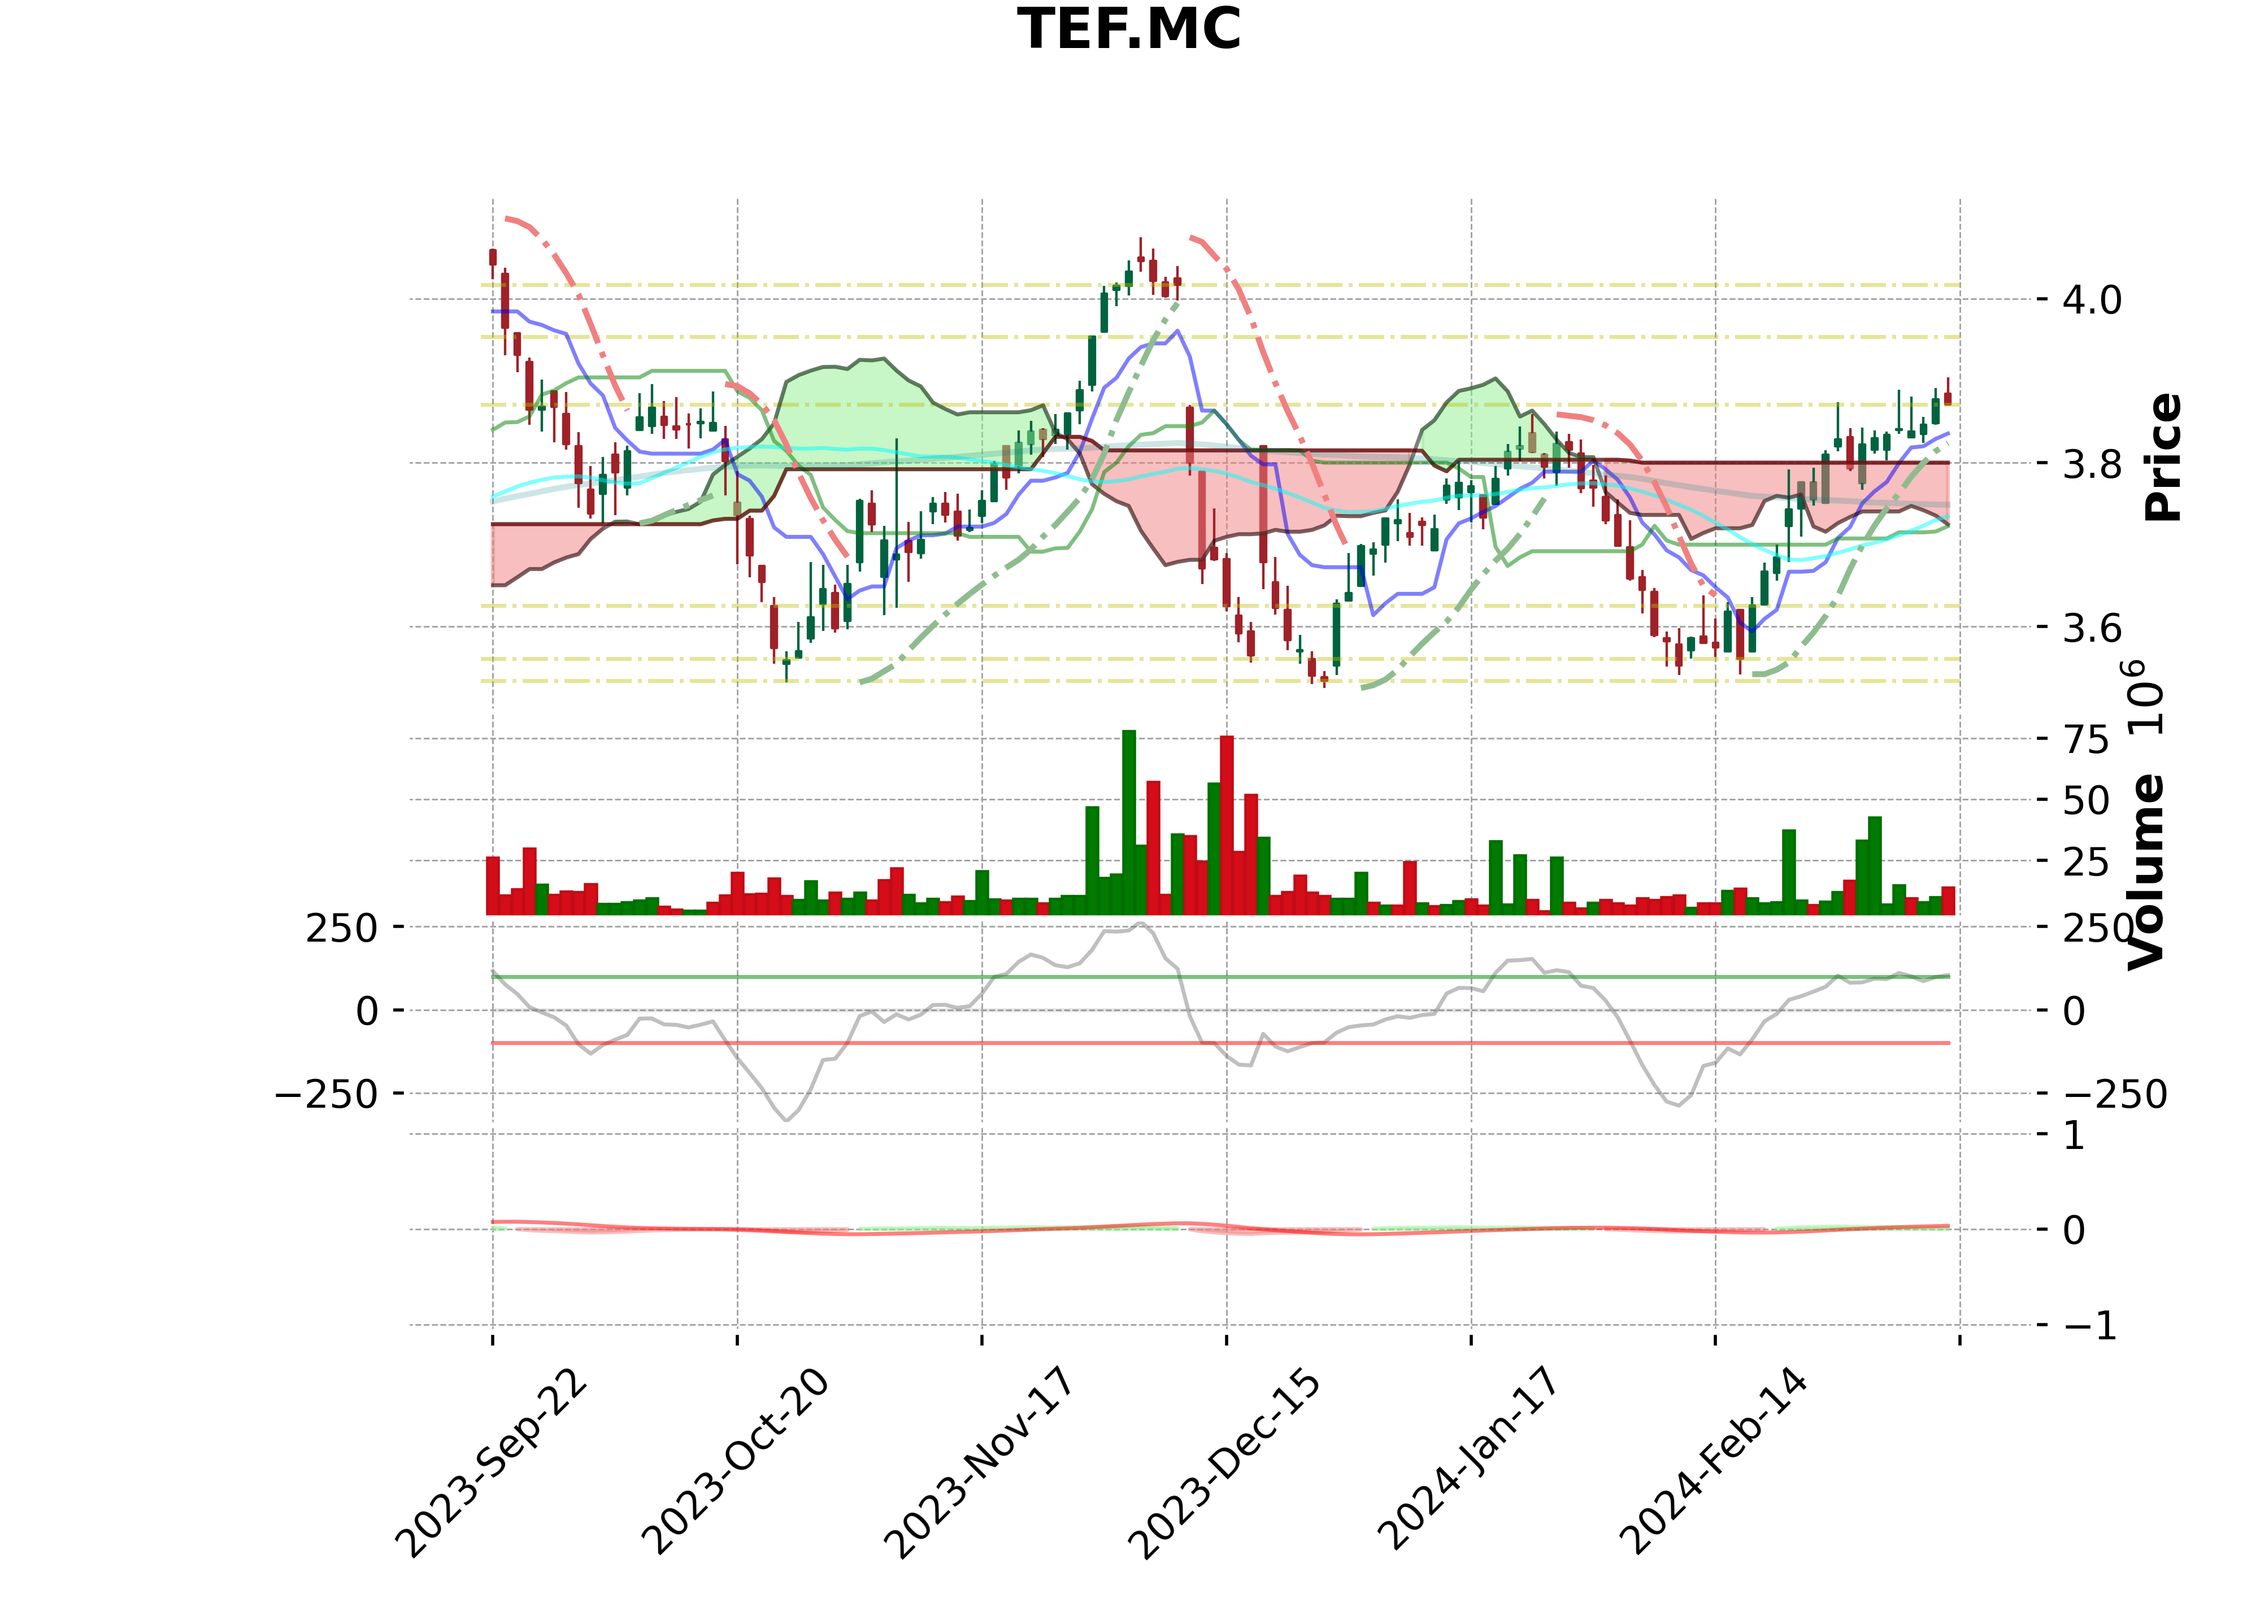
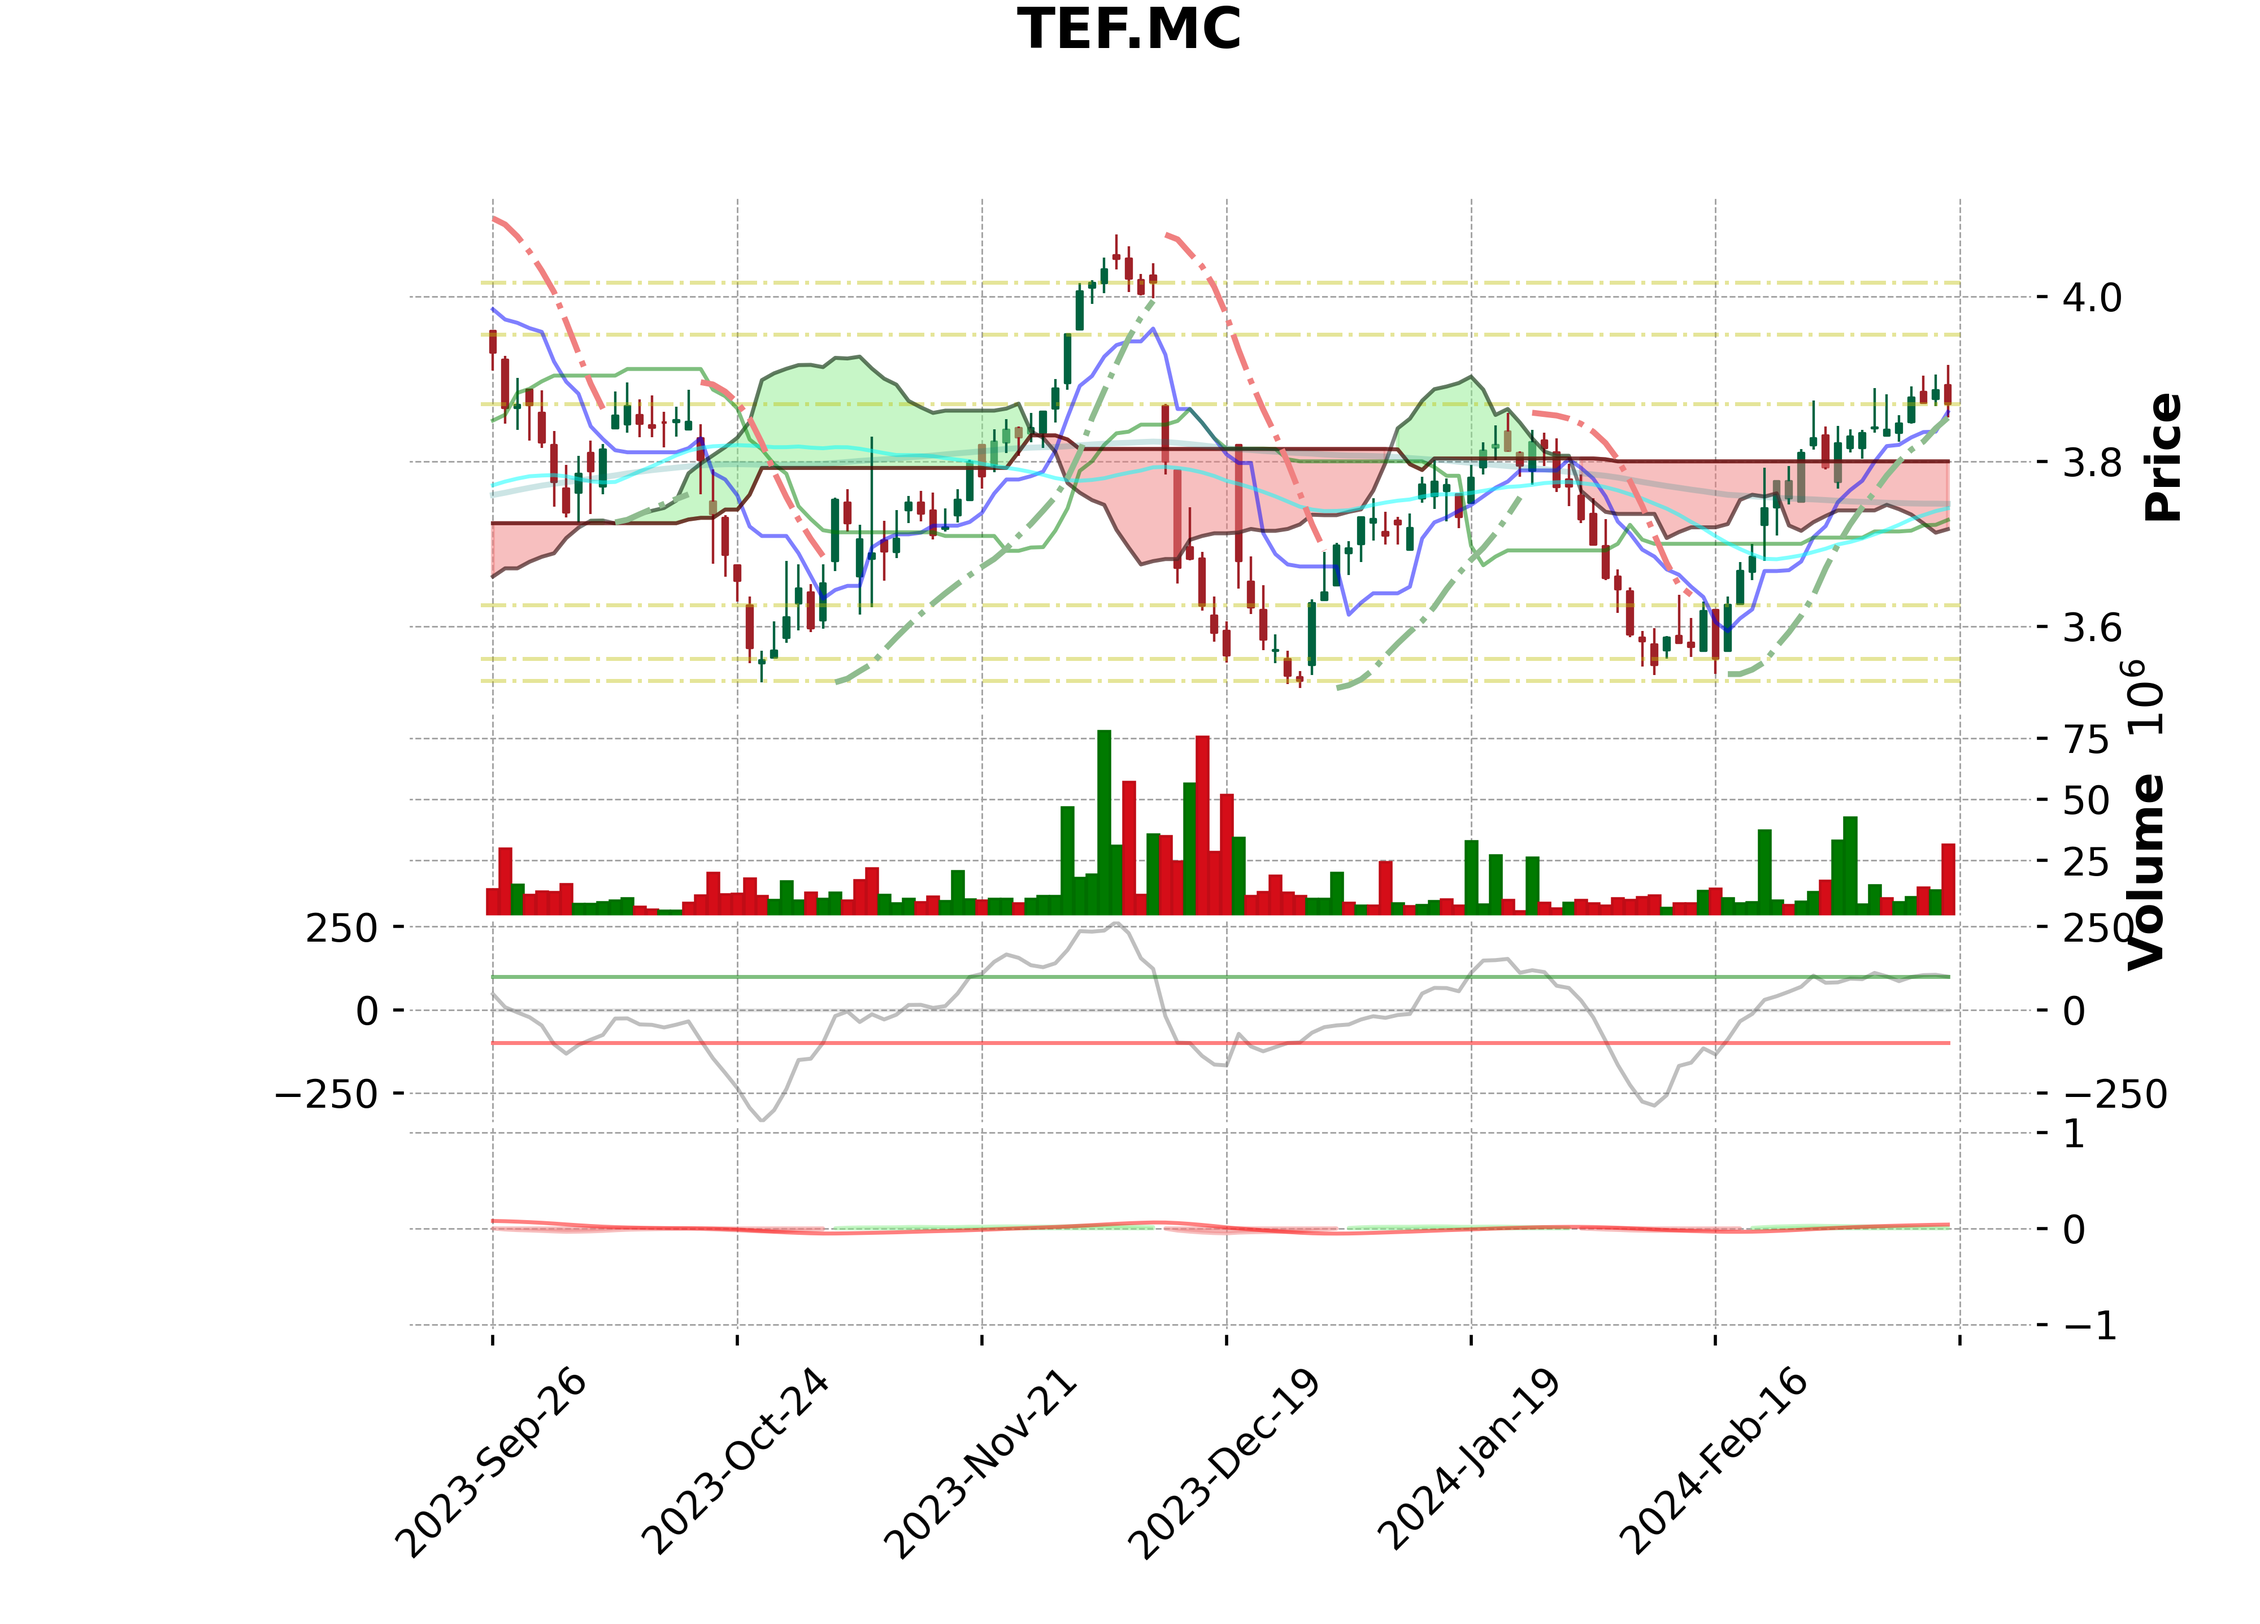
2024-03-12

diff --git a/_posts/2024-03-14-mercado-continuo.md b/_posts/2024-03-14-mercado-continuo.md
@@ -1,45 +1,63 @@
 ---
 title: Mercado Continuo
 author: jubapa
-date: 2024-03-12 00:10:00 +0800
+date: 2024-03-14 00:10:00 +0800
 categories: [Blogging, Finance, MC]
 tags: [finance]
 ---
 
-## 2024-03-12
+## 2024-03-14
 
 Checking ['ANA.MC', 'ANE.MC', 'ACX.MC', 'ACS.MC', 'ADZ.MC', 'AEDAS.MC', 'AENA.MC', 'AIR.MC', 'AI.MC', 'ALNT.MC', 'ALM.MC', 'AMS.MC', 'AMP.MC', 'EAT.MC', 'APAM.MC', 'APPS.MC', 'MTS.MC', 'ARM.MC', 'A3M.MC', 'ATRY.MC', 'ADX.MC', 'AZK.MC', 'BBVA.MC', 'SAB.MC', 'SAN.MC', 'BKT.MC', 'BKY.MC', 'RIO.MC', 'BAIN.MC', 'CABK.MC', 'CLNX.MC', 'CEV.MC', 'CIE.MC', 'CLEO.MC', 'CCEP.MC', 'CAF.MC', 'ALB.MC', 'CAM.MC', 'OLE.MC', 'DESA.MC', 'DIA.MC', 'MDF.MC', 'EBRO.MC', 'ENER.MC', 'EDR.MC', 'ENO.MC', 'ENG.MC', 'ENC.MC', 'ELE.MC', 'ECR.MC', 'FAE.MC', 'FER.MC', 'FDR.MC', 'FCC.MC', 'GAM.MC', 'GEST.MC', 'DOM.MC', 'GRE.MC', 'GCO.MC', 'CBAV.MC', 'GSJ.MC', 'EZE.MC', 'IAG.MC', 'IBE.MC', 'IBG.MC', 'ITX.MC', 'IDR.MC', 'COL.MC', 'ISUR.MC', 'ROVI.MC', 'RJF.MC', 'LRE.MC', 'LIB.MC', 'LDA.MC', 'LGT.MC', 'LOG.MC', 'MAP.MC', 'MEL.MC', 'MRL.MC', 'MVC.MC', 'MFEA.MC', 'MCM.MC', 'MTB.MC', 'NTGY.MC', 'NTH.MC', 'HOME.MC', 'NHH.MC', 'NEA.MC', 'NXT.MC', 'NYE.MC', 'OHLA.MC', 'OPDE.MC', 'ORY.MC', 'PVA.MC', 'PHM.MC', 'PRM.MC', 'PRS.MC', 'CASH.MC', 'PSG.MC', 'RLIA.MC', 'RED.MC', 'R4.MC', 'REN.MC', 'REP.MC', 'SCYR.MC', 'ISE.MC', 'SLR.MC', 'SOL.MC', 'SQRL.MC', 'TLGO.MC', 'TRE.MC', 'TEF.MC', 'TUB.MC', 'TRG.MC', 'UNI.MC', 'UBS.MC', 'VID.MC', 'VIS.MC']
 
 
 
-### STOCK REP.MC
-<https://finance.yahoo.com/quote/REP.MC>
+### STOCK ALM.MC
+<https://finance.yahoo.com/quote/ALM.MC>
 
 | Date       |   Close |   Percentage |
 |:-----------|--------:|-------------:|
-| 2024-02-27 |  14.755 |   nan        |
-| 2024-02-28 |  14.61  |    -0.992474 |
-| 2024-02-29 |  14.725 |     0.78099  |
-| 2024-03-01 |  14.695 |    -0.204156 |
-| 2024-03-04 |  14.55  |    -0.99656  |
-| 2024-03-05 |  14.47  |    -0.552867 |
-| 2024-03-06 |  14.465 |    -0.034567 |
-| 2024-03-07 |  14.435 |    -0.207826 |
-| 2024-03-08 |  14.42  |    -0.104025 |
-| 2024-03-11 |  14.515 |     0.654497 |
-| 2024-03-12 |  14.665 |     1.02284  |
+| 2024-02-29 |   7.92  |   nan        |
+| 2024-03-01 |   8.04  |     1.49254  |
+| 2024-03-04 |   8     |    -0.5      |
+| 2024-03-05 |   8.03  |     0.373596 |
+| 2024-03-06 |   8.055 |     0.310373 |
+| 2024-03-07 |   8.105 |     0.616894 |
+| 2024-03-08 |   8.13  |     0.30751  |
+| 2024-03-11 |   8.23  |     1.21506  |
+| 2024-03-12 |   8.2   |    -0.36585  |
+| 2024-03-13 |   8.13  |    -0.861005 |
+| 2024-03-14 |   8.04  |    -1.1194   |
 
-![REP.MC](/assets/img/stocks/REP.png){: w="700" h="400" .w-75 .normal}
-_REP.MC_
+![ALM.MC](/assets/img/stocks/ALM.png){: w="700" h="400" .w-75 .normal}
+_ALM.MC_
+
+### STOCK CIE.MC
+<https://finance.yahoo.com/quote/CIE.MC>
+
+| Date       |   Close |   Percentage |
+|:-----------|--------:|-------------:|
+| 2024-02-29 |   24.62 |   nan        |
+| 2024-03-01 |   24.86 |     0.965405 |
+| 2024-03-04 |   24.82 |    -0.161164 |
+| 2024-03-05 |   24.64 |    -0.730521 |
+| 2024-03-06 |   24.98 |     1.36109  |
+| 2024-03-07 |   25.3  |     1.26482  |
+| 2024-03-08 |   25.2  |    -0.396819 |
+| 2024-03-11 |   24.9  |    -1.20482  |
+| 2024-03-12 |   25    |     0.400002 |
+| 2024-03-13 |   25.14 |     0.556879 |
+| 2024-03-14 |   24.9  |    -0.963855 |
+
+![CIE.MC](/assets/img/stocks/CIE.png){: w="700" h="400" .w-75 .normal}
+_CIE.MC_
 
 ### STOCK TEF.MC
 <https://finance.yahoo.com/quote/TEF.MC>
 
 | Date       |   Close |   Percentage |
 |:-----------|--------:|-------------:|
-| 2024-02-27 |   3.81  |  nan         |
-| 2024-02-28 |   3.828 |    0.470223  |
-| 2024-02-29 |   3.793 |   -0.922755  |
+| 2024-02-29 |   3.793 |  nan         |
 | 2024-03-01 |   3.822 |    0.758766  |
 | 2024-03-04 |   3.83  |    0.208875  |
 | 2024-03-05 |   3.834 |    0.104335  |
@@ -48,6 +66,8 @@ _REP.MC_
 | 2024-03-08 |   3.846 |    0.208006  |
 | 2024-03-11 |   3.877 |    0.799591  |
 | 2024-03-12 |   3.871 |   -0.155     |
+| 2024-03-13 |   3.886 |    0.385998  |
+| 2024-03-14 |   3.87  |   -0.413438  |
 
 ![TEF.MC](/assets/img/stocks/TEF.png){: w="700" h="400" .w-75 .normal}
 _TEF.MC_
